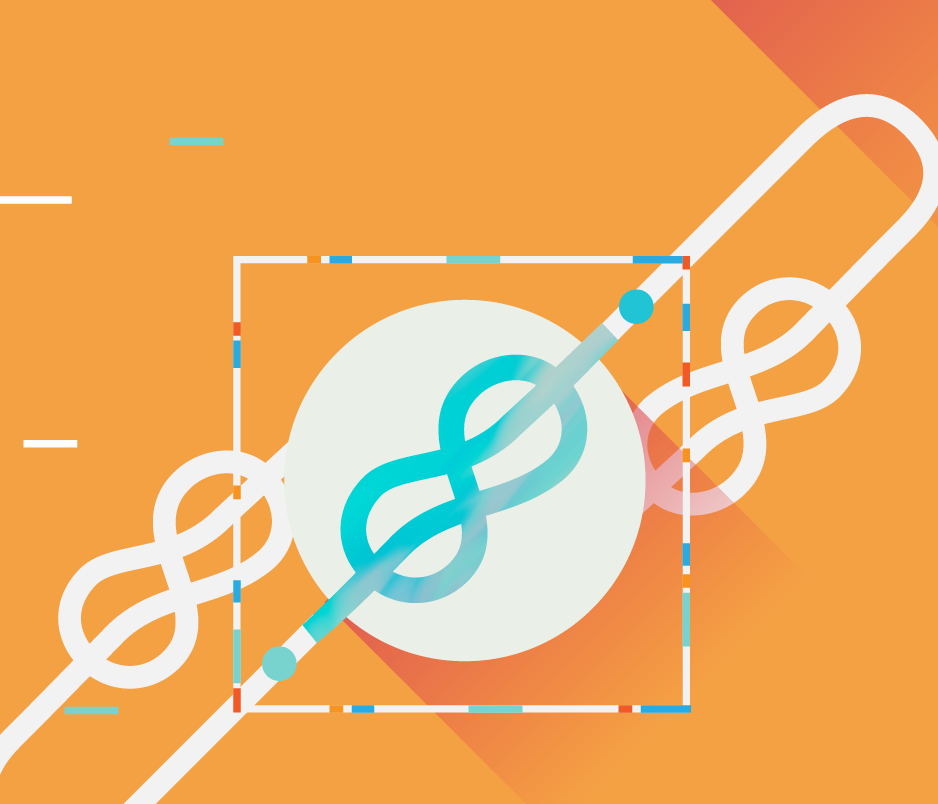
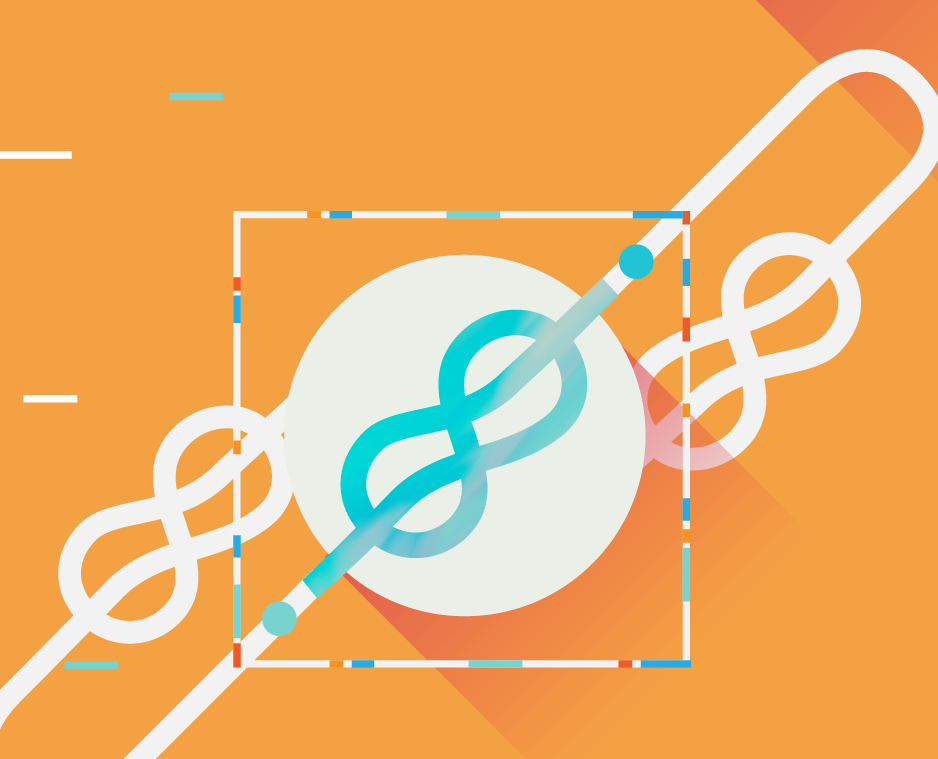
tweak hero size on mobile

diff --git a/index.html b/index.html
@@ -22,9 +22,29 @@
             font-style: normal;
         }
 
-        @media screen and (min-width: 960px) and (max-width: 1180px) {
+        @media screen and (max-width: 48em) {
+            .hero-left {
+                display: none;
+            }
+
+            .hero-right {
+                display: none;
+            }
+        }
+
+        @media screen and (min-width: 48em) and (max-width: 64em) {
             .block-col {
                 width: 33%;
+            }
+
+            .hero-left {
+                top: 20%;
+                left: 15%;
+            }
+
+            .hero-right {
+                top: 60%;
+                right: 6%;
             }
         }
 
@@ -41,14 +61,16 @@
             }
         }
 
-        .hero-left {
-            top: 15%;
-            left: 15%;
-        }
+        @media screen and (min-width: 60em) {
+            .hero-left {
+                top: 15%;
+                left: 15%;
+            }
 
-        .hero-right {
-            top: 60%;
-            right: 14%;
+            .hero-right {
+                top: 60%;
+                right: 14%;
+            }
         }
 
         .ticket-bg {
@@ -119,8 +141,8 @@
         </header>
         <!-- hero -->
         <article class="w-100 center relative">
-            <h2 class="dn db-l white absolute hero-left f4-ns lh-title">Sep. 11th - 16th<br />TAIWAN</h2>
-            <h2 class="dn db-l white absolute hero-right f4-ns lh-title">Co-host with WCIT 2017 &<br />TICTeC@Taipei</h2>
+            <h2 class="dn db-ns white absolute hero-left f4-ns lh-title">Sep. 11th - 16th<br />TAIWAN</h2>
+            <h2 class="dn db-ns white absolute hero-right f4-ns lh-title">Co-host with WCIT 2017 &<br />TICTeC@Taipei</h2>
             <img src="./hero.png" class="dn db-ns mw-100 mh-100">
             <img src="./hero-2.png" class="db dn-ns mw-100 mh-100">
         </article>
